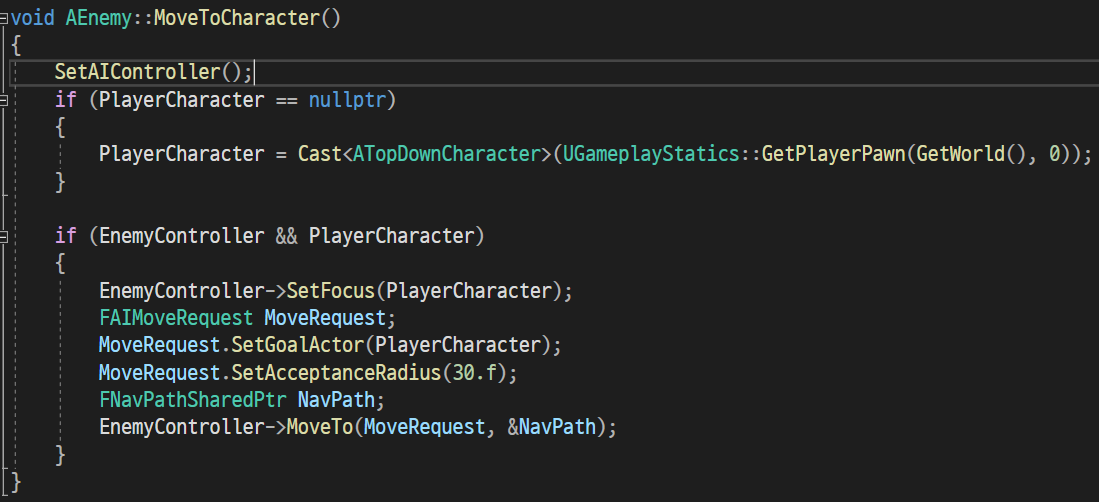
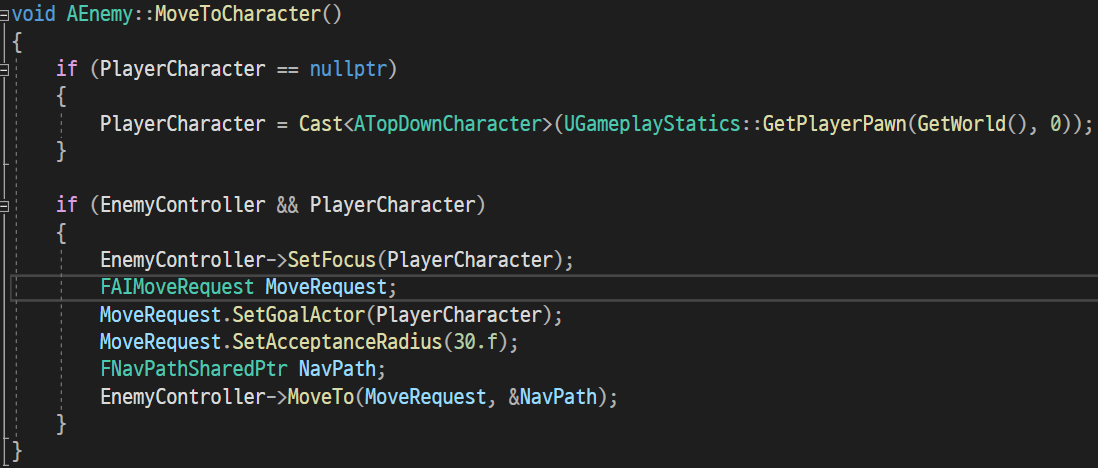
Feat : TopDown게임
ReadMe작성을 위한 스크린샷 저장

Changed region(s): [[0.0, 0.0, 1.0, 0.9872]]

diff --git a/TopDown/Source/TopDown/Private/Enemy/Enemy.cpp b/TopDown/Source/TopDown/Private/Enemy/Enemy.cpp
@@ -97,7 +97,12 @@ void AEnemy::Attack()
 	{
 		bCanAttack = false;
 		StartAttackTimer();
-		UGameplayStatics::ApplyDamage(CombatTarget, AttackDamage, GetController(), this, UDamageType::StaticClass());
+		UGameplayStatics::ApplyDamage(
+			CombatTarget,
+			AttackDamage,
+			GetController(),
+			this,
+			UDamageType::StaticClass());
 	}
 }
 
@@ -122,7 +127,6 @@ void AEnemy::PlayDeathMontage()
 
 void AEnemy::MoveToCharacter()
 {
-	SetAIController();
 	if (PlayerCharacter == nullptr)
 	{
 		PlayerCharacter = Cast<ATopDownCharacter>(UGameplayStatics::GetPlayerPawn(GetWorld(), 0));
